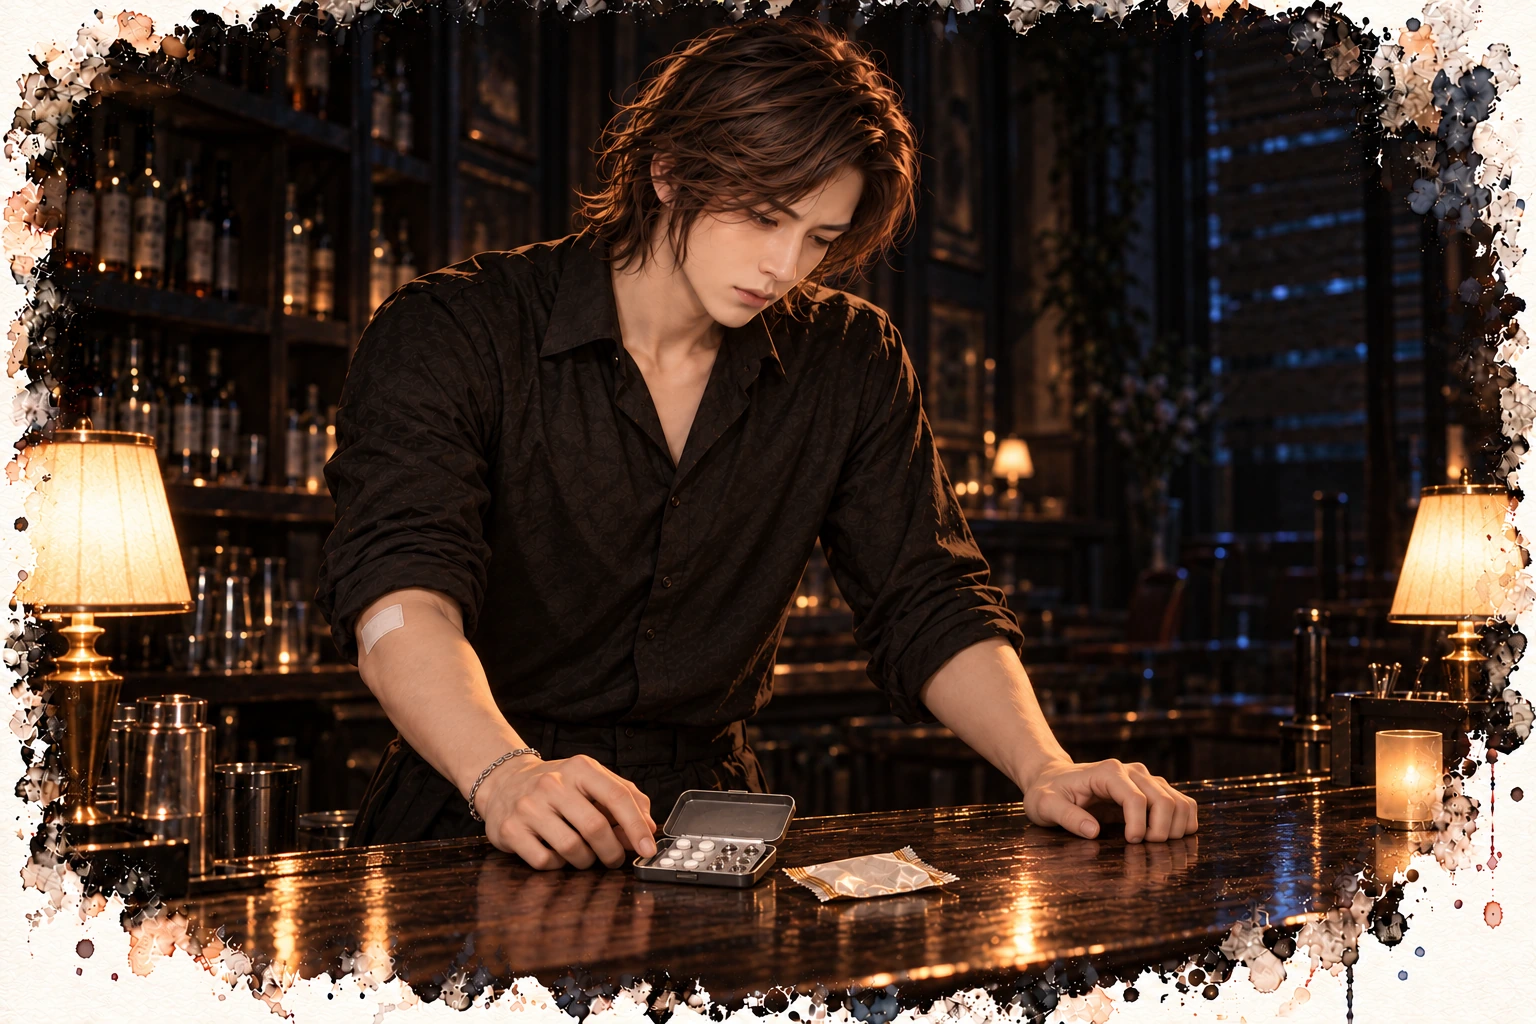
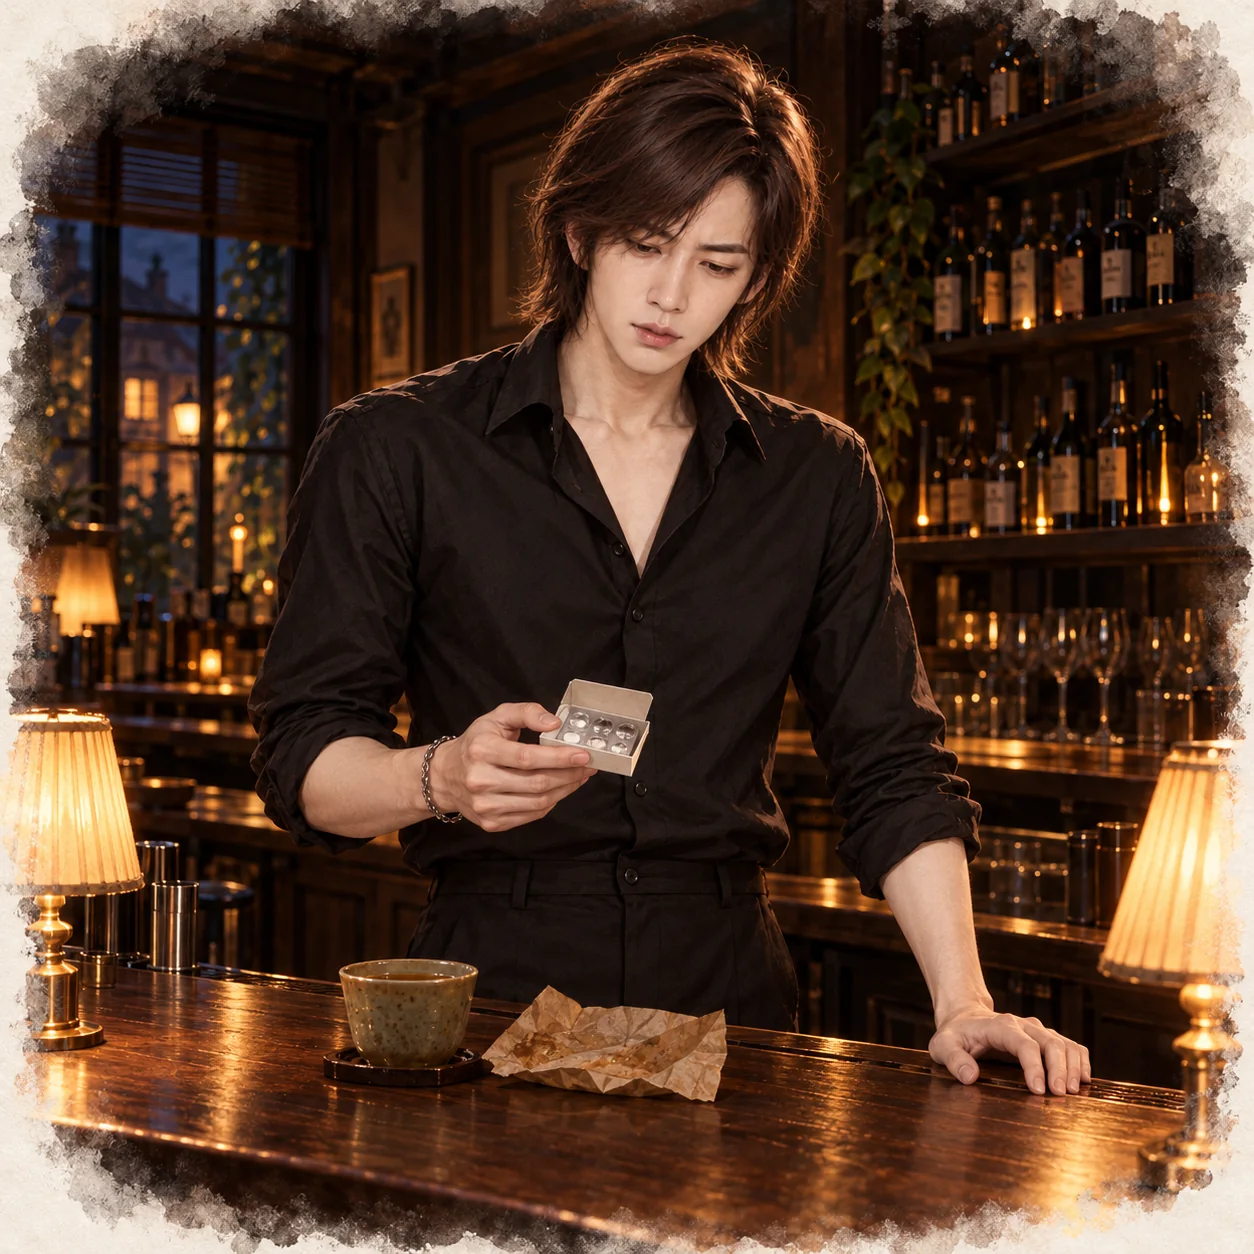
沒有招牌的酒吧 第一部第六章：替換江澈插圖
Claude-Session: https://claude.ai/code/session_01HUwf2ENyDuzceKaKYawxmj

diff --git a/novels/no-signboard-bar/chapter-06.html b/novels/no-signboard-bar/chapter-06.html
@@ -192,7 +192,7 @@
 <p>那瓶水，我大概可以炫耀一輩子。</p>
 </section>
 <section class="pov pov-jiang" data-name="江澈">
-<div class="pov-opening"><h2 class="pov-title" id="pov-4"><span>敘事視角</span>江澈</h2><a class="pov-art" href="../../assets/novels/no-signboard-bar/chapter-06-jiang-che.webp" target="_blank" rel="noopener" aria-label="開啟江澈插圖大圖"><img src="../../assets/novels/no-signboard-bar/chapter-06-jiang-che.webp" alt="江澈低頭看著吧檯上的藥盒與餅乾包裝紙，右臂貼著小敷料。" width="1536" height="1024" loading="lazy" decoding="async"><span class="pov-cap">我卻不想再打開第二次。</span></a><div class="pov-intro"><p>林棠第一個走。</p>
+<div class="pov-opening"><h2 class="pov-title" id="pov-4"><span>敘事視角</span>江澈</h2><a class="pov-art" href="../../assets/novels/no-signboard-bar/chapter-06-jiang-che.webp?v=20261013" target="_blank" rel="noopener" aria-label="開啟江澈插圖大圖"><img src="../../assets/novels/no-signboard-bar/chapter-06-jiang-che.webp?v=20261013" alt="人都走了，江澈站在吧檯後打開林棠留下的藥盒，看著一排空了很多格的白色藥片；檯上是她喝剩一半的陶杯和那張攤平的餅乾包裝紙。" width="1254" height="1254" loading="lazy" decoding="async"><span class="pov-cap">我卻不想再打開第二次。</span></a><div class="pov-intro"><p>林棠第一個走。</p>
 <p>十點四十，她說車到了，站起來的時候扶了一下椅背，過了兩秒才站穩。</p>
 <p>我從吧檯後面繞出去。</p></div></div>
 <p>「不用送。」</p>
